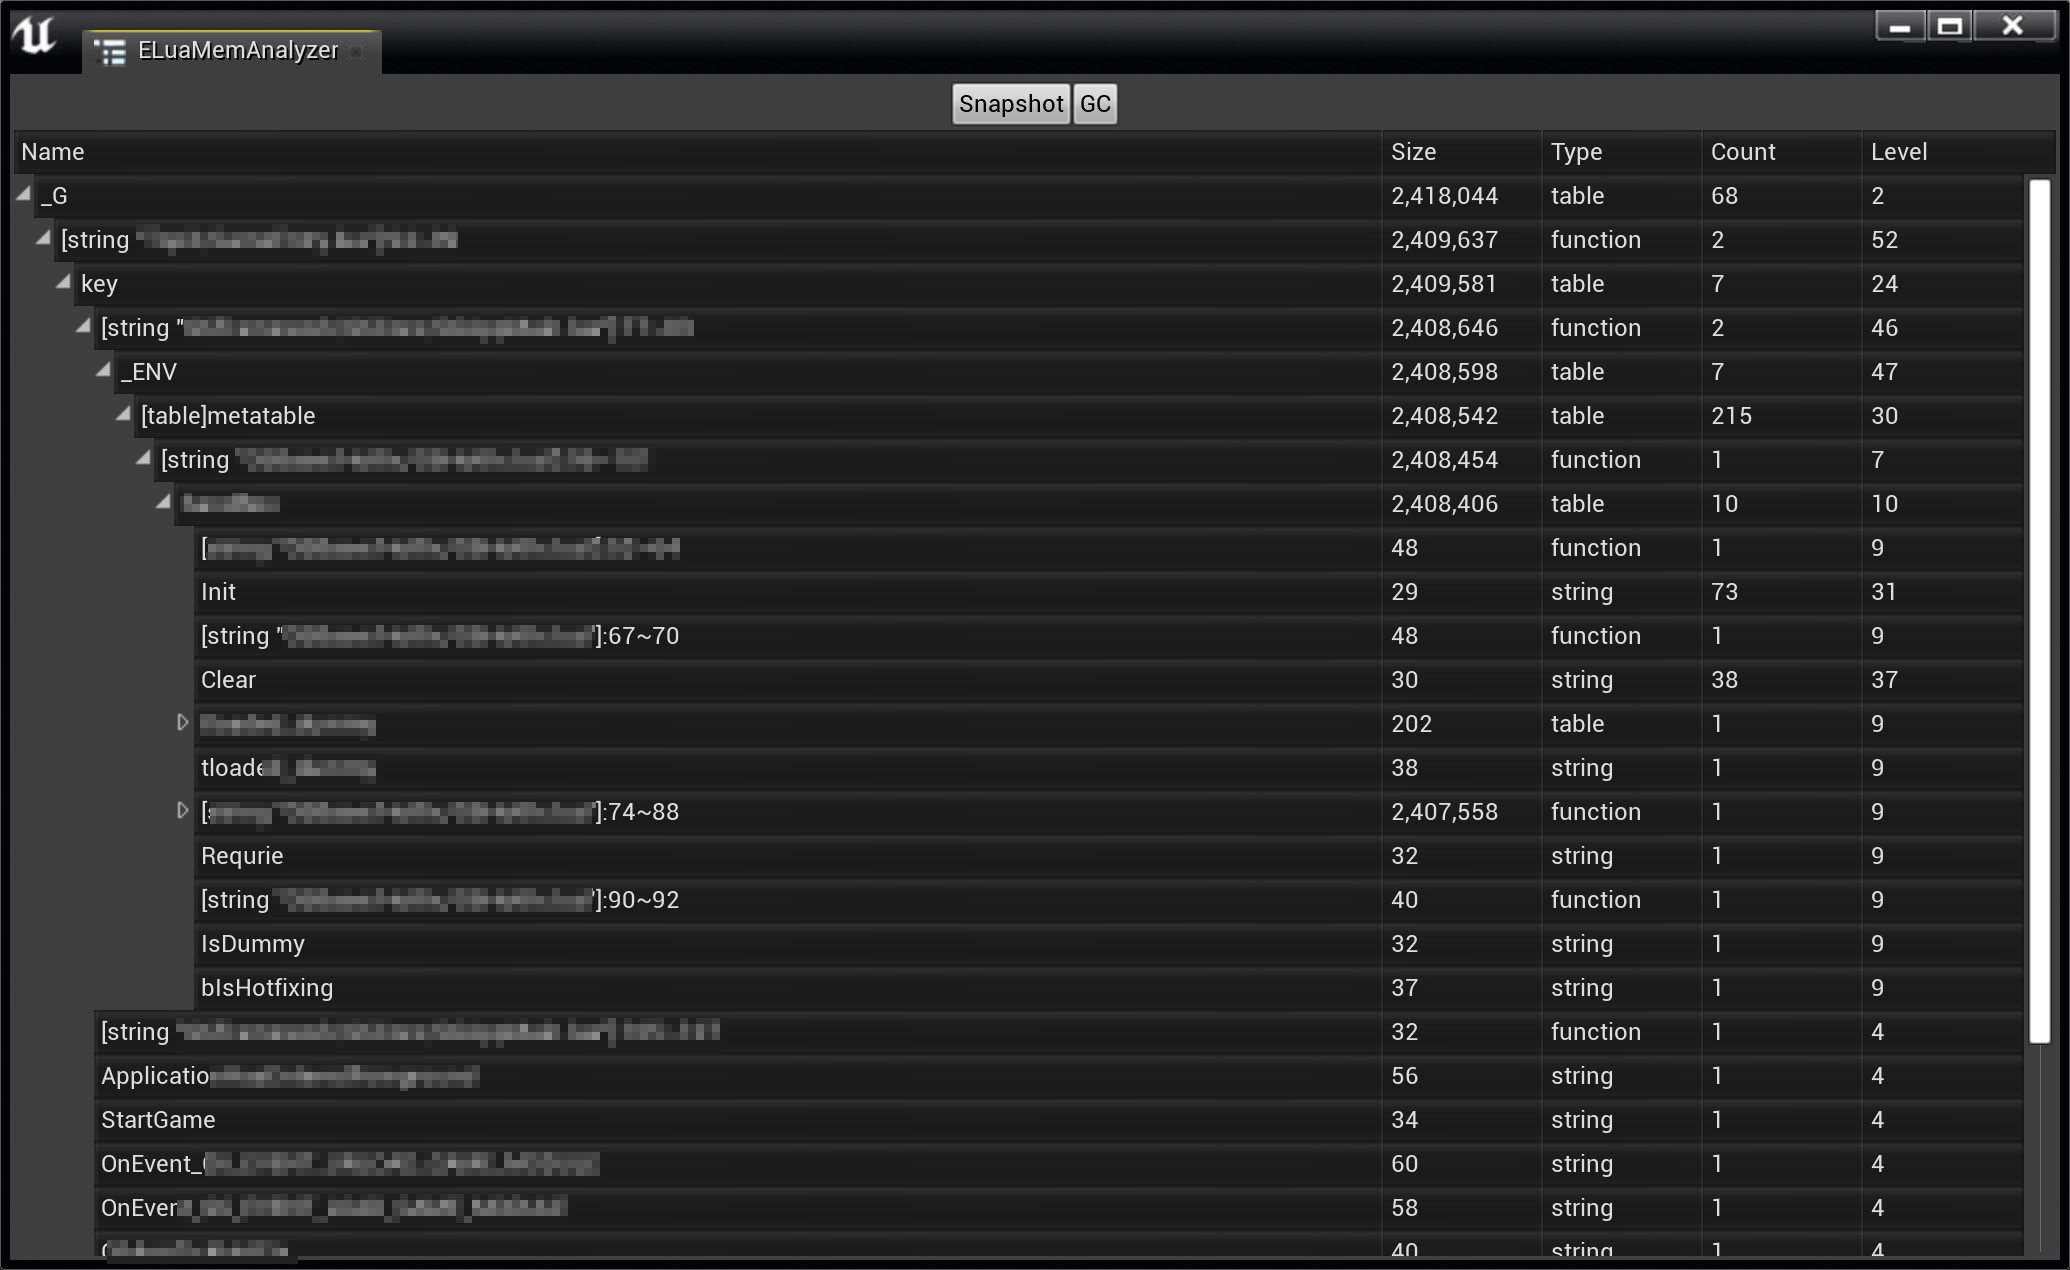
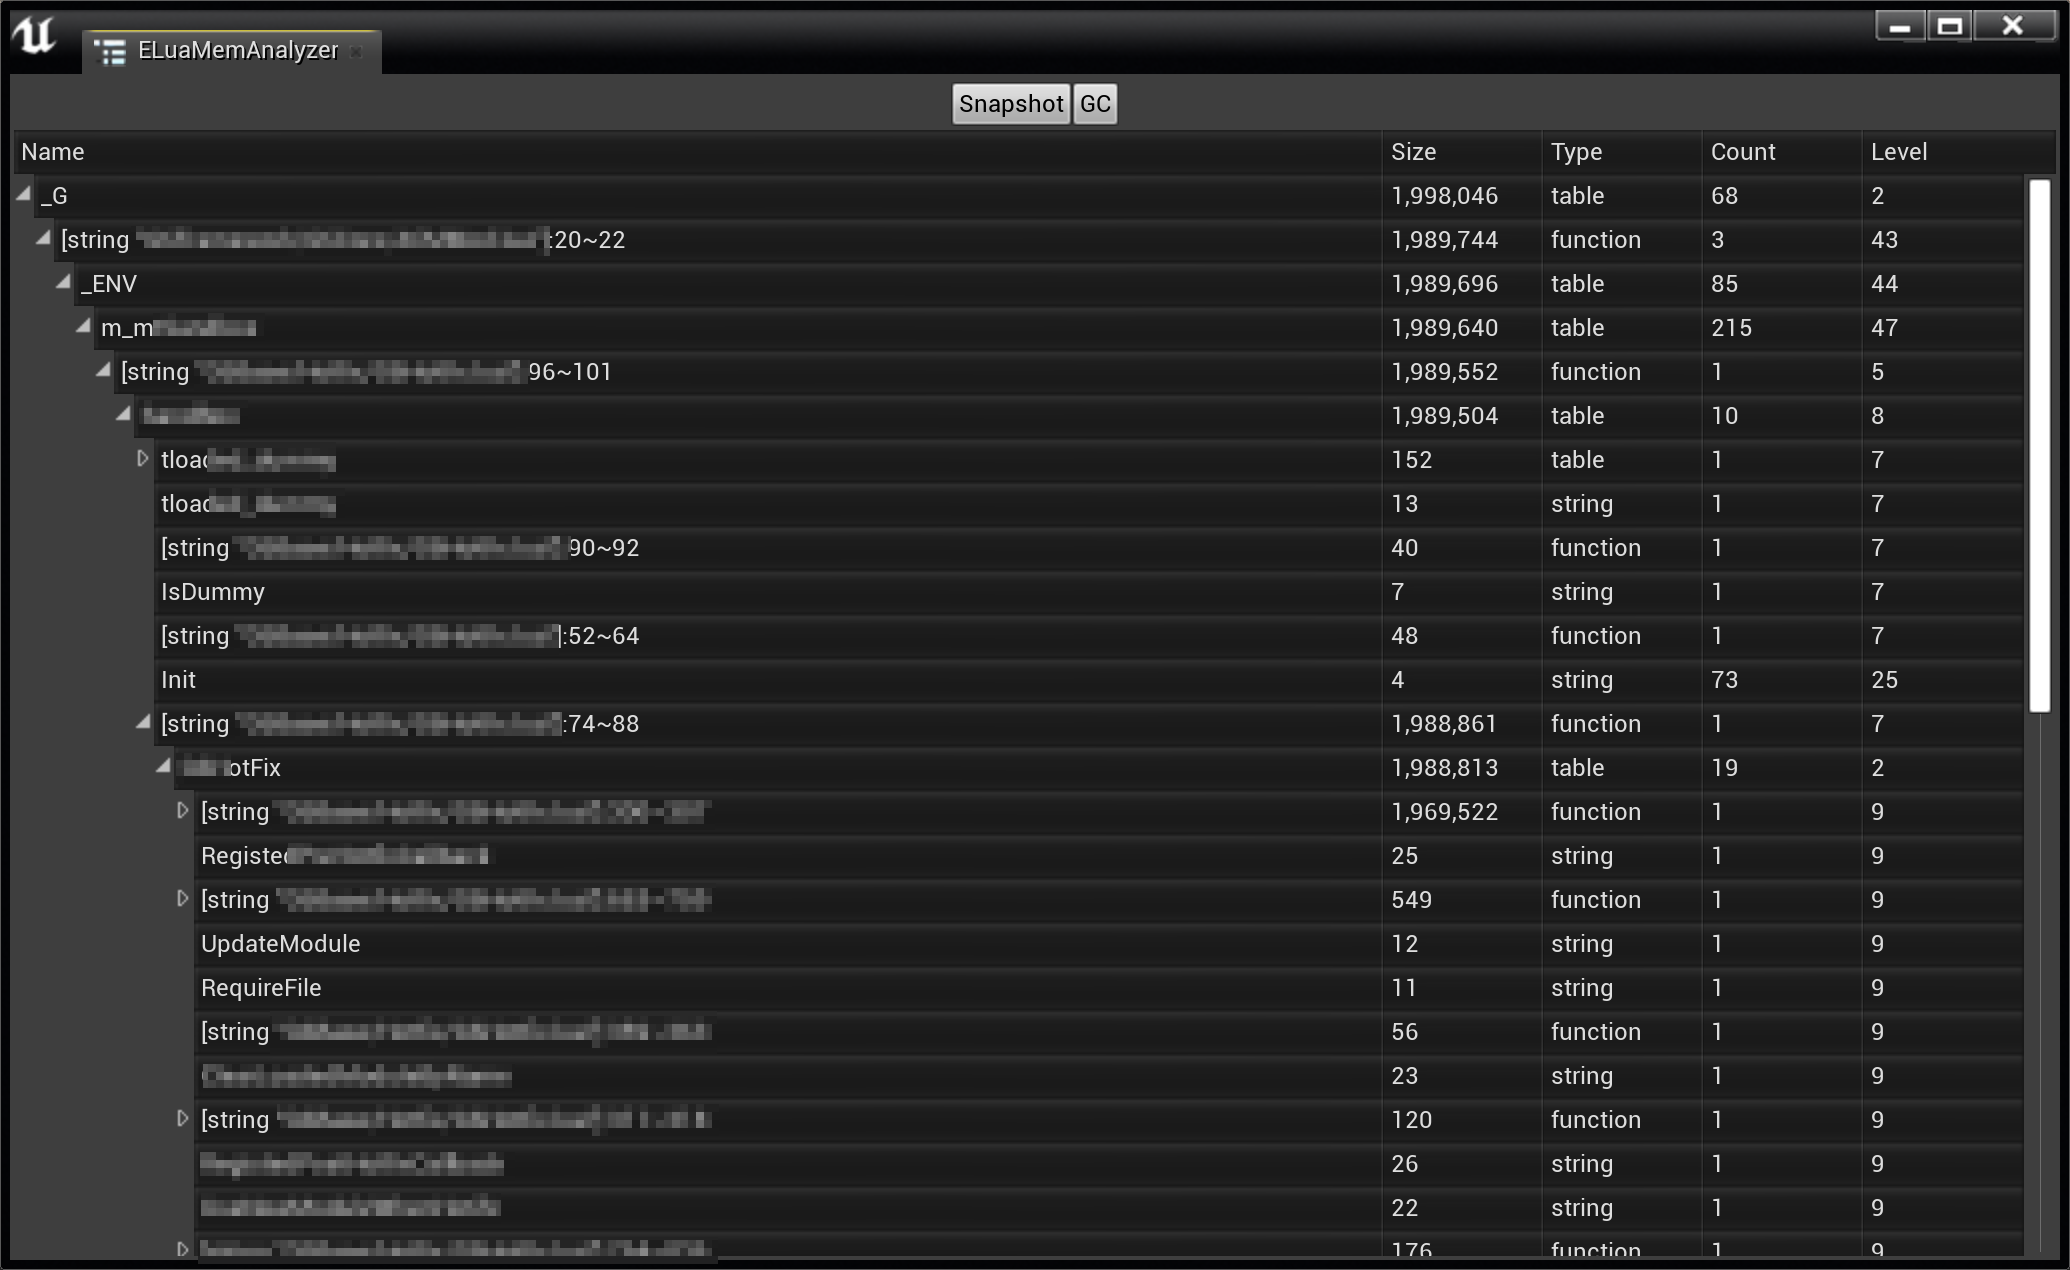
Update ELuaMemAnalyzer_v1.png

diff --git a/UE4/UnLua/ELuaProfiler/Source/Private/ELuaCommonUtil.cpp b/UE4/UnLua/ELuaProfiler/Source/Private/ELuaCommonUtil.cpp
@@ -170,15 +170,9 @@ int32 lua_sizeof(lua_State* L, int32 idx)
 		break;
 	}
 	case LUA_TSHRSTR:
-	{
-		TString* ts = tsvalue(o);
-		return sizelstring(ts->shrlen);
-		break;
-	}
 	case LUA_TLNGSTR:
 	{
-		TString* ts = tsvalue(o);
-		return sizelstring(ts->u.lnglen);
+		return vslen(o);
 		break;
 	}
 	case LUA_TNUMBER:
